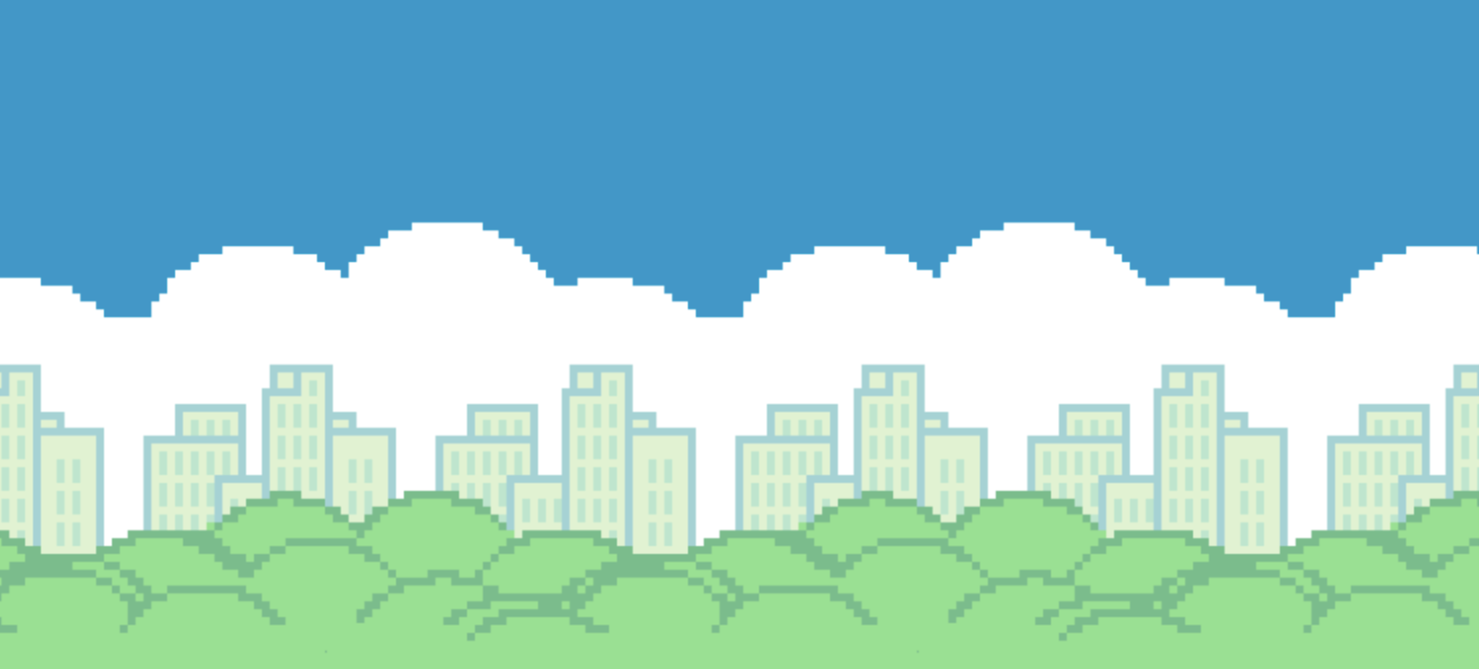
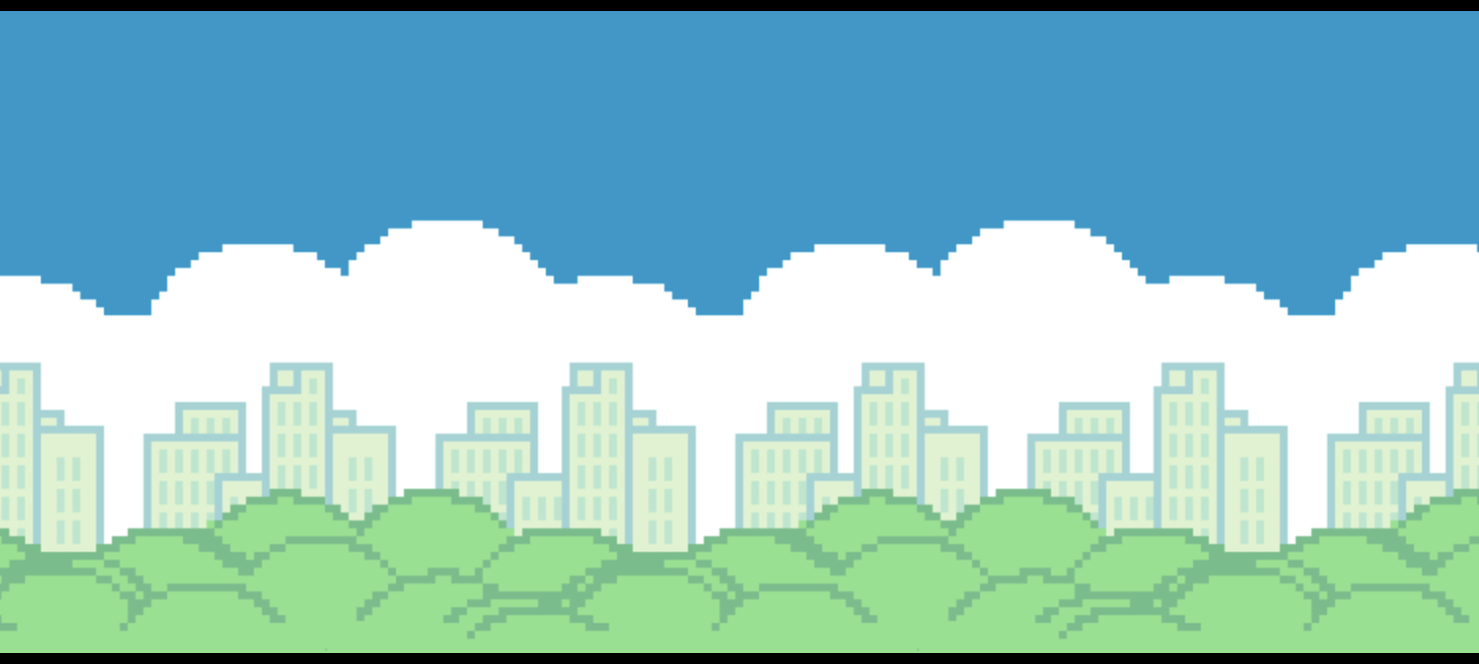
minor changes

diff --git a/src/script.js b/src/script.js
@@ -25,7 +25,7 @@ let score = 0;
 let gameActive = false;
 let isPaused = false;
 let boxAppearTime = 0;
-const GAME_DURATION = 90000; // 90 seconds in milliseconds
+const GAME_DURATION = 120000; // 120 seconds in milliseconds
 let gameStartTime = 0;
 let timeRemaining = GAME_DURATION;
 let pauseStartTime = 0;
@@ -49,9 +49,9 @@ let flappyBird = {
 let pipes = [];
 
 // Ball Game Constants
-const BALL_RADIUS = 10;
-const PADDLE_WIDTH = 100;
-const PADDLE_HEIGHT = 10;
+const BALL_RADIUS = 25;
+const PADDLE_WIDTH = 150;
+const PADDLE_HEIGHT = 15;
 const BALL_SPEED = 5;
 const BALL_SPEED_INCREMENT = 0.1;
 
@@ -398,16 +398,76 @@ function initBallGame() {
 
 function drawBall() {
     reflexCtx.beginPath();
+
+    // Create a radial gradient for a 3D effect
+    const gradient = reflexCtx.createRadialGradient(
+        ball.x - BALL_RADIUS / 3, // gradient center X
+        ball.y - BALL_RADIUS / 3, // gradient center Y
+        BALL_RADIUS / 5,           // inner radius
+        ball.x, 
+        ball.y, 
+        BALL_RADIUS               // outer radius
+    );
+    gradient.addColorStop(0, '#ffffff'); // highlight
+    gradient.addColorStop(0.5, '#ebeb1eff'); // main color
+    gradient.addColorStop(1, '#d4d400'); // shadow color
+
+    reflexCtx.fillStyle = gradient;
     reflexCtx.arc(ball.x, ball.y, BALL_RADIUS, 0, Math.PI * 2);
-    reflexCtx.fillStyle = '#ebeb1eff';
     reflexCtx.fill();
+
+    // Optional subtle outline
+    reflexCtx.lineWidth = 2;
+    reflexCtx.strokeStyle = 'rgba(0,0,0,0.2)';
+    reflexCtx.stroke();
+
     reflexCtx.closePath();
 }
 
+
 function drawPaddle() {
-    reflexCtx.fillStyle = '#3b82f6';
-    reflexCtx.fillRect(paddle.x, paddle.y, PADDLE_WIDTH, PADDLE_HEIGHT);
+    const radius = 10; 
+    reflexCtx.beginPath();
+    reflexCtx.moveTo(paddle.x + radius, paddle.y);
+    reflexCtx.lineTo(paddle.x + PADDLE_WIDTH - radius, paddle.y);
+    reflexCtx.quadraticCurveTo(paddle.x + PADDLE_WIDTH, paddle.y, paddle.x + PADDLE_WIDTH, paddle.y + radius);
+    reflexCtx.lineTo(paddle.x + PADDLE_WIDTH, paddle.y + PADDLE_HEIGHT - radius);
+    reflexCtx.quadraticCurveTo(paddle.x + PADDLE_WIDTH, paddle.y + PADDLE_HEIGHT, paddle.x + PADDLE_WIDTH - radius, paddle.y + PADDLE_HEIGHT);
+    reflexCtx.lineTo(paddle.x + radius, paddle.y + PADDLE_HEIGHT);
+    reflexCtx.quadraticCurveTo(paddle.x, paddle.y + PADDLE_HEIGHT, paddle.x, paddle.y + PADDLE_HEIGHT - radius);
+    reflexCtx.lineTo(paddle.x, paddle.y + radius);
+    reflexCtx.quadraticCurveTo(paddle.x, paddle.y, paddle.x + radius, paddle.y);
+    reflexCtx.closePath();
+
+    // Gradient fill for premium ash-grey look
+    const gradient = reflexCtx.createLinearGradient(paddle.x, paddle.y, paddle.x, paddle.y + PADDLE_HEIGHT);
+    gradient.addColorStop(0, "#e0e0e0");  // light ash
+    gradient.addColorStop(0.5, "#b0b0b0"); // mid-tone
+    gradient.addColorStop(1, "#7a7a7a");  // darker ash
+    reflexCtx.fillStyle = gradient;
+    reflexCtx.fill();
+
+    // Subtle outline for depth
+    reflexCtx.lineWidth = 2;
+    reflexCtx.strokeStyle = "rgba(0,0,0,0.3)";
+    reflexCtx.stroke();
+
+    // Soft shadow for premium feel
+    reflexCtx.shadowColor = "rgba(0,0,0,0.25)";
+    reflexCtx.shadowBlur = 10;
+    reflexCtx.shadowOffsetY = 4;
+
+    // Fill & stroke again to apply shadow properly
+    reflexCtx.fill();
+    reflexCtx.stroke();
+
+    // Reset shadow so it doesn’t affect other drawings
+    reflexCtx.shadowColor = "transparent";
+    reflexCtx.shadowBlur = 0;
+    reflexCtx.shadowOffsetY = 0;
 }
+
+
 
 function updateBallGame() {
     paddle.x = Math.max(0, Math.min(reflexCanvas.width - PADDLE_WIDTH, mouseX - PADDLE_WIDTH / 2));
@@ -525,10 +585,10 @@ function gameLoop(timestamp) {
 }
 
 function startGame() {
-    if (playerNameInput.value.trim() === '') {
+    /* if (playerNameInput.value.trim() === '') {
         promptForNameAndStartGame();
         return;
-    }
+    } */
     
     resetGame();
     gameActive = true;
@@ -545,14 +605,15 @@ function startGame() {
     requestAnimationFrame(gameLoop);
 }
 
-function promptForNameAndStartGame() {
+/* function promptForNameAndStartGame() {
     modalTitle.textContent = "Enter Your Name";
     finalScoreDisplay.textContent = "Please enter your name to save your high score.";
     highScoresList.innerHTML = '';
     nameInputContainer.classList.remove('hidden');
     restartButton.textContent = "Continue";
     restartButton.onclick = startGame;
-}
+    }
+ */
 
 
 function resetGame() {
@@ -600,7 +661,6 @@ function endGame() {
     restartButton.textContent = "Save Score";
     restartButton.onclick = () => {
         saveHighScore(score);
-        startGame();
     };
 }
 
@@ -703,7 +763,7 @@ restartButton.addEventListener('click', () => {
 pauseButton.addEventListener('click', pauseGame);
 resumeButton.addEventListener('click', resumeGame);
 exitButton.addEventListener('click', exitGame);
-
+/* 
 toggleViewButton.addEventListener('click', () => {
     if (scoreboardView.classList.contains('hidden')) {
         menuView.classList.add('hidden');
@@ -715,7 +775,7 @@ toggleViewButton.addEventListener('click', () => {
         toggleViewButton.textContent = "View Scoreboard";
     }
 });
-
+ */
 
 window.addEventListener('resize', () => {
     flappyCanvas.width = flappyCanvas.offsetWidth;

diff --git a/src/index.html b/src/index.html
@@ -7,10 +7,10 @@
     <link href="https://cdn.jsdelivr.net/npm/tailwindcss@2.2.19/dist/tailwind.min.css" rel="stylesheet">
     <link rel="stylesheet" href="style.css">
     <style>
-        @import url('https://fonts.googleapis.com/css2?family=Inter:wght@400;700&display=swap');
+        @import url('');
         body {
             font-family: 'Inter', sans-serif;
-            background-color: #f3f4f6;
+            background-color: #14233f;
             height: 100vh;
             overflow: hidden;
         }
@@ -65,22 +65,22 @@
                     Start Game
                 </button>
             </div>
+<!--
             
-            <!-- Scoreboard View (Initially hidden) -->
             <div id="scoreboardView" class="hidden">
                 <h2 class="text-3xl font-bold text-gray-800 mb-4">High Scores</h2>
                 <div id="highScoresContainer" class="mt-6 mb-4">
                     <ul id="highScoresList" class="text-gray-600">
-                        <!-- High scores will be loaded here -->
+                        
                     </ul>
                 </div>
             </div>
 
-            <!-- Toggle Button -->
+            
             <button id="toggleViewButton" class="mt-4 w-full bg-gray-500 hover:bg-gray-600 text-white font-bold py-3 px-6 rounded-lg transition duration-300 transform hover:scale-105">
                 View Scoreboard
             </button>
-            
+-->
             <div class="mt-4 hidden" id="menuButtons">
                 <button id="resumeButton" class="w-full bg-blue-500 hover:bg-blue-600 text-white font-bold py-3 px-6 rounded-lg mb-2 transition duration-300 transform hover:scale-105">
                     Resume

diff --git a/src/style.css b/src/style.css
@@ -1,6 +1,6 @@
-body {
+.body {
     font-family: 'Inter', sans-serif;
-    background-color: #1a1a2e; /* Dark blue background for the whole page */
+    background-color: #1b1b80; /* Dark blue background for the whole page */
     overflow: hidden;
     margin: 0;
     padding: 0;
@@ -82,10 +82,15 @@ body {
 }
 
 .canvas-container:last-child canvas {
-    background-image: url('abstract-smooth-dark-blue-with-black-vignette-studio-well-use-as-background-business-report-digital-website-template-backdrop.jpg');
-    background-size: cover;
-    background-position: center;
-    background-repeat: no-repeat;
+    /* Powerful gradient based on #4397c7 */
+    background: linear-gradient(to bottom, #6ec1f0, #4397c7, #1f5f8a);
+}
+
+/* Top and bottom black lines */
+.canvas-container:last-child canvas {
+    position: relative;
+    border-top: 20px solid black;
+    border-bottom: 20px solid black;
 }
 
 @media (max-width: 768px) {
